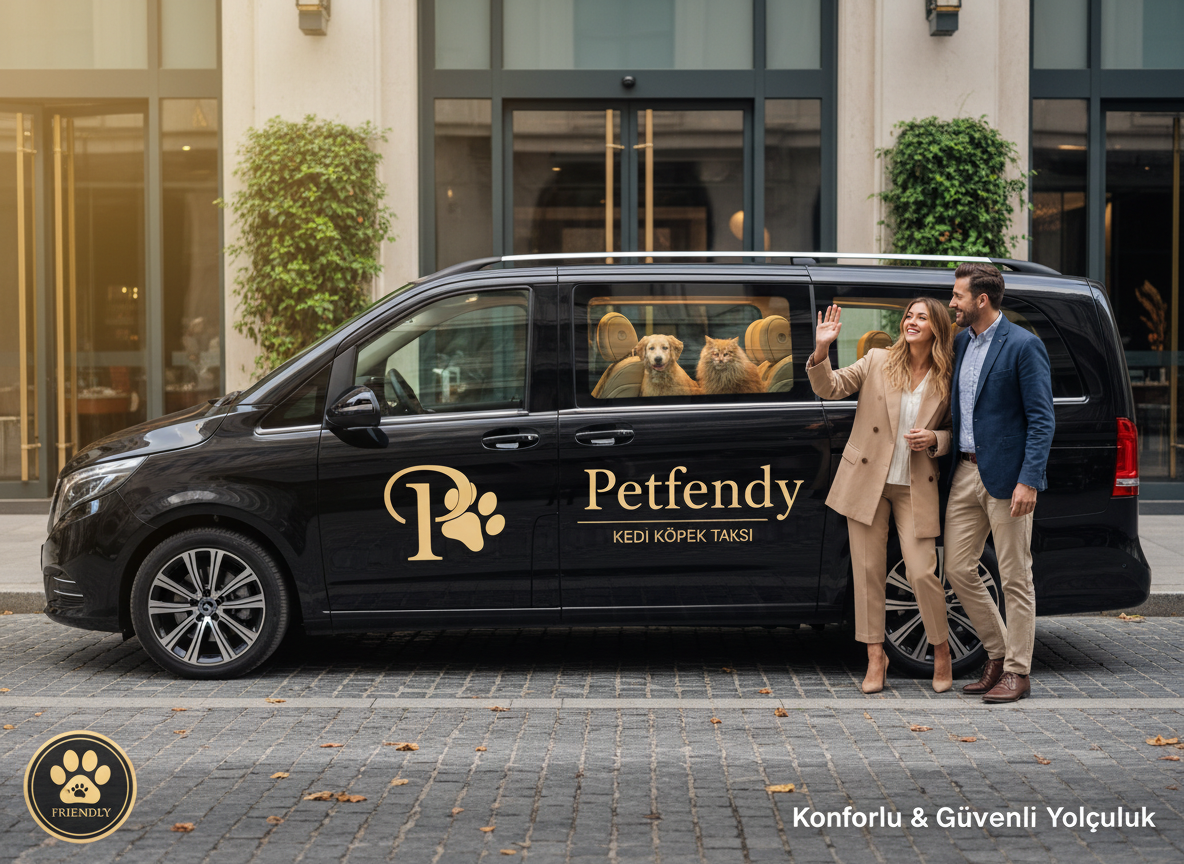
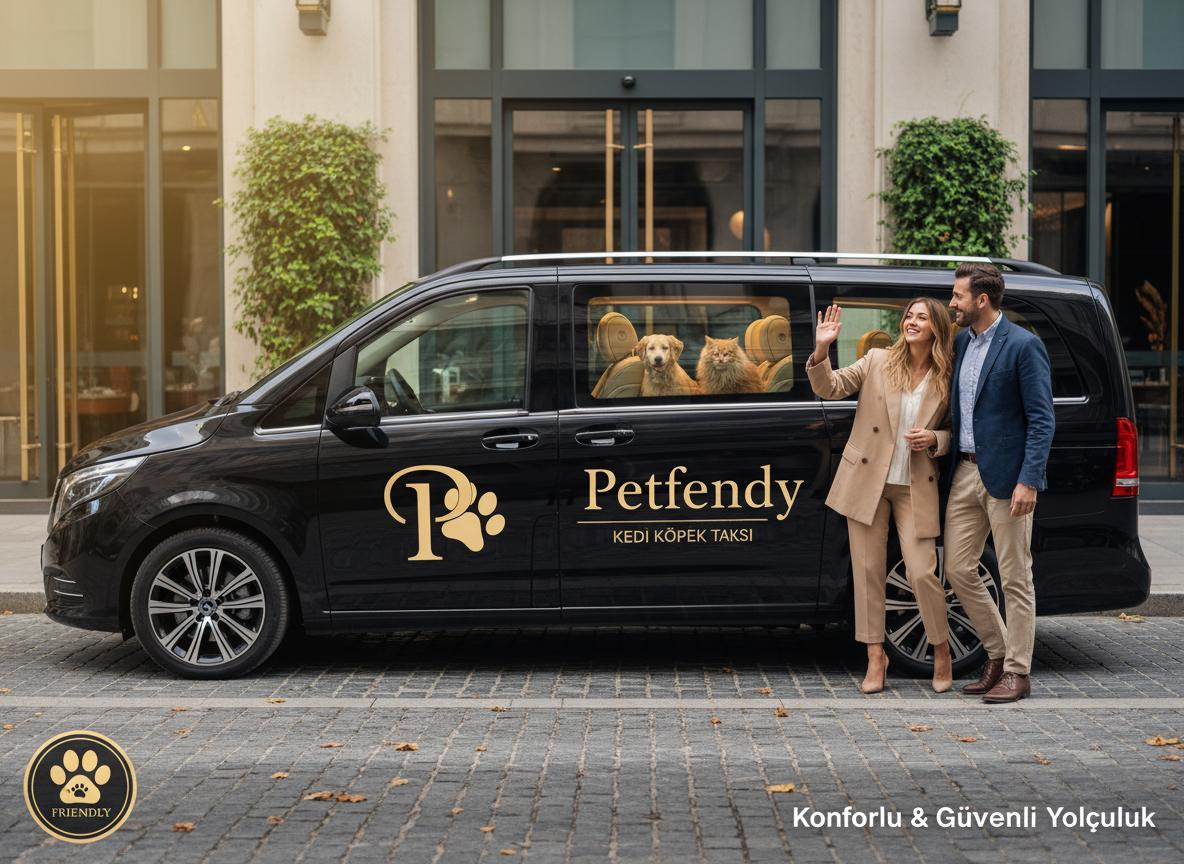
Perf: Optimize LCP images - slider-hotel 1.6MB->120KB, slider-taxi 1.7MB->154KB, hero-pets 5.8MB->57KB

diff --git a/app/[locale]/home/page.tsx b/app/[locale]/home/page.tsx
@@ -99,8 +99,9 @@ export default function HomePage() {
               className="object-cover"
               priority={index === 0}
               loading={index === 0 ? "eager" : "lazy"}
-              sizes="100vw"
-              quality={60}
+              sizes="(max-width: 768px) 100vw, 1920px"
+              quality={75}
+              {...(index === 0 && { fetchPriority: "high" })}
             />
             {/* Dark overlay for better text readability */}
             <div className="absolute inset-0 bg-black/30"></div>
@@ -543,7 +544,7 @@ export default function HomePage() {
             <div className="relative">
               <div className="relative rounded-3xl overflow-hidden shadow-2xl bg-gradient-to-br from-orange-50 to-yellow-50">
                 <Image
-                  src="/images/hero-pets.png"
+                  src="/images/hero-pets.webp"
                   alt={tNew('safetyBannerAlt')}
                   width={600}
                   height={600}

diff --git a/app/[locale]/layout.tsx b/app/[locale]/layout.tsx
@@ -8,8 +8,19 @@ import { Toaster } from "@/components/ui/toaster"
 import { ThemeProvider } from "@/components/theme-provider"
 import { WhatsAppButton } from "@/components/whatsapp-button"
 
-const _geist = Geist({ subsets: ["latin"] })
-const _geistMono = Geist_Mono({ subsets: ["latin"] })
+const geistSans = Geist({ 
+  subsets: ["latin"],
+  display: 'swap',
+  preload: true,
+  variable: '--font-geist-sans',
+})
+
+const geistMono = Geist_Mono({ 
+  subsets: ["latin"],
+  display: 'swap', 
+  preload: true,
+  variable: '--font-geist-mono',
+})
 
 const locales = ['tr', 'en'];
 
